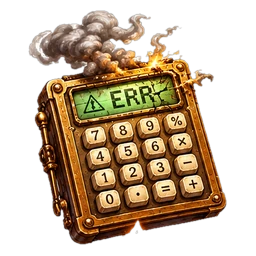
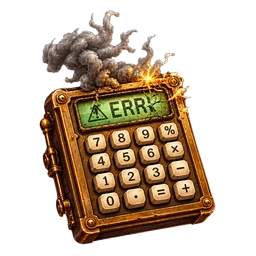
Calculadora y libro con vela: versión limpia de las nuevas ilustraciones (v189)
Claude-Session: https://claude.ai/code/session_01D8YuskAoU39u1VrYjoDDvg

diff --git a/index.html b/index.html
@@ -47,13 +47,13 @@
 <link rel="preconnect" href="https://fonts.googleapis.com">
 <link rel="preconnect" href="https://fonts.gstatic.com" crossorigin>
 <link href="https://fonts.googleapis.com/css2?family=Playfair+Display:wght@600;700;800&family=Inter:wght@400;500;600;700;800;900&display=swap" rel="stylesheet">
-<link rel="stylesheet" href="styles/main.css?v=188">
+<link rel="stylesheet" href="styles/main.css?v=189">
 <!-- v1.4: estilos de la capa online (cuenta, migración, ranking). Solo clases .seq-* -->
-<link rel="stylesheet" href="styles/online.css?v=188">
-<link rel="stylesheet" href="styles/encargos.css?v=188">
-<link rel="stylesheet" href="styles/encargos-intro.css?v=188">
-<link rel="stylesheet" href="styles/sir-events.css?v=188">
-<link rel="stylesheet" href="styles/theme.css?v=188">
+<link rel="stylesheet" href="styles/online.css?v=189">
+<link rel="stylesheet" href="styles/encargos.css?v=189">
+<link rel="stylesheet" href="styles/encargos-intro.css?v=189">
+<link rel="stylesheet" href="styles/sir-events.css?v=189">
+<link rel="stylesheet" href="styles/theme.css?v=189">
 
 </head>
 <body class="on-home">
@@ -1104,53 +1104,53 @@ try {
 <!-- Fase 2: datos y constantes extraidos a modulos, cargados como scripts
      clasicos (no ES Modules) para conservar el scope global compartido con
      el script principal, sin convertir todavia la app a ES Modules. -->
-<script src="src/data/ui-maps.js?v=188"></script>
-<script src="src/data/questions.js?v=188"></script>
-<script src="src/data/questions-retired.js?v=188"></script>
-<script src="src/data/phrases.js?v=188"></script>
-<script src="src/data/duel-phrases.js?v=188"></script>
-<script src="src/data/lucidez.js?v=188"></script>
-<script src="src/data/medals.js?v=188"></script>
+<script src="src/data/ui-maps.js?v=189"></script>
+<script src="src/data/questions.js?v=189"></script>
+<script src="src/data/questions-retired.js?v=189"></script>
+<script src="src/data/phrases.js?v=189"></script>
+<script src="src/data/duel-phrases.js?v=189"></script>
+<script src="src/data/lucidez.js?v=189"></script>
+<script src="src/data/medals.js?v=189"></script>
 <!-- Prompt 3 — Fase C: sistema de avatares compartido (window.SEQAvatars). Debe
      cargarse antes de src/online/online.js y src/online/duels.js: ambos lo
      consumen en vez de mantener cada uno su propia copia de la lista. -->
-<script src="src/data/avatars.js?v=188"></script>
-<script src="src/share/share-card.js?v=188"></script>
+<script src="src/data/avatars.js?v=189"></script>
+<script src="src/share/share-card.js?v=189"></script>
 
 <!-- Fase 3 (Lote 3A): motor de coincidencia de respuestas extraido a
      src/utils/matching.js, mismo criterio que la Fase 2 (script clasico,
      sin ES Modules todavia). -->
-<script src="src/utils/matching.js?v=188"></script>
-<script src="src/utils/answer-alias.js?v=188"></script>
-<script src="src/utils/lucidez-select.js?v=188"></script>
-<script src="src/state/lucidez-bag.js?v=188"></script>
-<script src="src/utils/encargos-core.js?v=188"></script>
-<script src="src/utils/encargos-progress.js?v=188"></script>
-<script src="src/state/encargos.js?v=188"></script>
-<script src="src/data/encargos-phrases.js?v=188"></script>
-<script src="src/ui/encargos-ui.js?v=188"></script>
-<script src="src/data/named-phrases.js?v=188"></script>
-<script src="src/utils/named-phrases.js?v=188"></script>
-<script src="src/utils/encargos-intro-core.js?v=188"></script>
-<script src="src/data/encargos-intro-phrases.js?v=188"></script>
-<script src="src/ui/encargos-intro.js?v=188"></script>
-<script src="src/data/home-quotes.js?v=188"></script>
-<script src="src/ui/home-quote.js?v=188"></script>
-<script src="src/utils/sir-events.js?v=188"></script>
-<script src="src/ui/sir-events-ui.js?v=188"></script>
-<script src="src/state/sir-events.js?v=188"></script>
-<script src="src/utils/sudden-progression.js?v=188"></script>
-<script src="src/utils/fresh-first.js?v=188"></script>
-<script src="src/utils/mental-calc.js?v=188"></script>
-<script src="src/utils/mental-classic.js?v=188"></script>
-<script src="src/ui/mental-classic-ui.js?v=188"></script>
+<script src="src/utils/matching.js?v=189"></script>
+<script src="src/utils/answer-alias.js?v=189"></script>
+<script src="src/utils/lucidez-select.js?v=189"></script>
+<script src="src/state/lucidez-bag.js?v=189"></script>
+<script src="src/utils/encargos-core.js?v=189"></script>
+<script src="src/utils/encargos-progress.js?v=189"></script>
+<script src="src/state/encargos.js?v=189"></script>
+<script src="src/data/encargos-phrases.js?v=189"></script>
+<script src="src/ui/encargos-ui.js?v=189"></script>
+<script src="src/data/named-phrases.js?v=189"></script>
+<script src="src/utils/named-phrases.js?v=189"></script>
+<script src="src/utils/encargos-intro-core.js?v=189"></script>
+<script src="src/data/encargos-intro-phrases.js?v=189"></script>
+<script src="src/ui/encargos-intro.js?v=189"></script>
+<script src="src/data/home-quotes.js?v=189"></script>
+<script src="src/ui/home-quote.js?v=189"></script>
+<script src="src/utils/sir-events.js?v=189"></script>
+<script src="src/ui/sir-events-ui.js?v=189"></script>
+<script src="src/state/sir-events.js?v=189"></script>
+<script src="src/utils/sudden-progression.js?v=189"></script>
+<script src="src/utils/fresh-first.js?v=189"></script>
+<script src="src/utils/mental-calc.js?v=189"></script>
+<script src="src/utils/mental-classic.js?v=189"></script>
+<script src="src/ui/mental-classic-ui.js?v=189"></script>
 
 <!-- Fase 3 (Lote 3B): nucleo algoritmico de Duelo extraido a
      src/utils/duel.js, mismo criterio que el resto (script clasico, sin
      ES Modules todavia). Las dependencias compartidas con otros modos
      (arrangeStandardBlock, generateLucidezMentalOp)
      permanecen en este script principal, sin moverse en este lote. -->
-<script src="src/utils/duel.js?v=188"></script>
+<script src="src/utils/duel.js?v=189"></script>
 
 <!-- Fase 3 (Lote 3C): defaults, migracion y saneamiento del Store
      extraidos a src/utils/store.js, mismo criterio que el resto (script
@@ -1162,50 +1162,50 @@ try {
      getLevelData) y las 8 funciones de persistencia real (loadStore,
      saveStore, exportProgress...) permanecen en este script principal,
      sin moverse en este lote. -->
-<script src="src/utils/store.js?v=188"></script>
+<script src="src/utils/store.js?v=189"></script>
 
 <!-- Fase 4B: fachada de estado de solo lectura (getStore/getCurrentGame),
      mismo criterio que el resto (script clasico, sin ES Modules todavia).
      No copia, no transforma, no cachea. Ver src/state/read-facade.js. -->
-<script src="src/state/read-facade.js?v=188"></script>
+<script src="src/state/read-facade.js?v=189"></script>
 
-<script src="src/utils/streak-xp.js?v=188"></script>
+<script src="src/utils/streak-xp.js?v=189"></script>
 <!-- Fase 4C: helpers minimos de escritura (pushCapped, resetStreak) para
      eliminar 2 duplicaciones reales concretas -- no un sistema de
      mutaciones. Ver src/state/write-helpers.js y CHANGELOG_FASE4C.md. -->
-<script src="src/state/write-helpers.js?v=188"></script>
+<script src="src/state/write-helpers.js?v=189"></script>
 
 <!-- v1.4: capa online (cuenta Google, sincronización, migración, ranking).
      config.js es PÚBLICO (URL del Worker + Client ID de Google); si está
      vacío, la capa online queda desactivada y la app es idéntica a la v1.3.
      online.js solo usa el store/funciones del juego en tiempo de ejecución. -->
-<script src="src/ui/install-app.js?v=188"></script>
-<script src="src/ui/a11y.js?v=188"></script>
-<script src="src/ui/back-nav.js?v=188"></script>
-<script src="src/ui/game-fx.js?v=188"></script>
-<script src="src/ui/last-life.js?v=188"></script>
-<script src="src/ui/hitos.js?v=188"></script>
-<script src="src/ui/achievements.js?v=188"></script>
-<script src="src/ui/stats-extra.js?v=188"></script>
-<script src="src/ui/name-prompt.js?v=188"></script>
-<script src="src/ui/intro.js?v=188"></script>
-<script src="src/ui/mode-badges.js?v=188"></script>
-<script src="src/ui/lucidez-ui.js?v=188"></script>
-<script src="src/ui/sabias.js?v=188"></script>
-<script src="src/ui/icons.js?v=188"></script>
-<script src="src/online/config.js?v=188"></script>
+<script src="src/ui/install-app.js?v=189"></script>
+<script src="src/ui/a11y.js?v=189"></script>
+<script src="src/ui/back-nav.js?v=189"></script>
+<script src="src/ui/game-fx.js?v=189"></script>
+<script src="src/ui/last-life.js?v=189"></script>
+<script src="src/ui/hitos.js?v=189"></script>
+<script src="src/ui/achievements.js?v=189"></script>
+<script src="src/ui/stats-extra.js?v=189"></script>
+<script src="src/ui/name-prompt.js?v=189"></script>
+<script src="src/ui/intro.js?v=189"></script>
+<script src="src/ui/mode-badges.js?v=189"></script>
+<script src="src/ui/lucidez-ui.js?v=189"></script>
+<script src="src/ui/sabias.js?v=189"></script>
+<script src="src/ui/icons.js?v=189"></script>
+<script src="src/online/config.js?v=189"></script>
 <!-- v2.0: combinación de datos de jugador (mismo código que el servidor) y su sincronización -->
-<script src="src/utils/sync-merge.js?v=188"></script>
-<script src="src/online/data-sync.js?v=188"></script>
-<script src="src/online/online.js?v=188"></script>
+<script src="src/utils/sync-merge.js?v=189"></script>
+<script src="src/online/data-sync.js?v=189"></script>
+<script src="src/online/online.js?v=189"></script>
 <!-- v1.5: Amigos, Duelo online y Retos. El servidor decide preguntas, tiempo, aciertos y ganador. -->
-<script src="src/online/duels.js?v=188"></script>
+<script src="src/online/duels.js?v=189"></script>
 <!-- 2.1: Duelo por apuestas, ELO PvP, Rankings y estadísticas de Duelos (solo presentación; decide el servidor) -->
-<script src="src/online/duels-v21.js?v=188"></script>
-<script src="src/online/inbox.js?v=188"></script>
-<script src="src/online/push.js?v=188"></script>
+<script src="src/online/duels-v21.js?v=189"></script>
+<script src="src/online/inbox.js?v=189"></script>
+<script src="src/online/push.js?v=189"></script>
 <!-- Audio: sonidos del juego (src/audio/audio.js) -->
-<script src="src/audio/audio.js?v=188"></script>
+<script src="src/audio/audio.js?v=189"></script>
 
 <script>
 function closeWelcomeModal() {

diff --git a/sw.js b/sw.js
@@ -38,7 +38,7 @@
 // styles/main.css, src/data/medals.js, src/utils/store.js y src/online/duels.js (ya en el shell).
 // 2.0 (Prompt 5, tarjeta de compartir): subido de 10 a 11; nuevo src/share/share-card.js
 // (añadido al shell) y cambiaron index.html y src/online/duels.js.
-const CACHE_VERSION = 188;
+const CACHE_VERSION = 189;
 // Dos cachés (ver install/fetch más abajo):
 //  · CACHE_NAME  (versionada): index.html, CSS, JS, manifest e iconos. Es poco y es imprescindible: si no se puede guardar, la
 //    versión nueva no se instala y se queda la anterior.
@@ -563,7 +563,7 @@ const ASSET_REVS = {
   './assets/ui/bombilla.webp': '38c00fe5',
   './assets/ui/bronce.webp': '5a68a9d9',
   './assets/ui/calavera.webp': '19d4f16e',
-  './assets/ui/calculadora-humo.webp': 'a33795b5',
+  './assets/ui/calculadora-humo.webp': 'd056b438',
   './assets/ui/calculadora-laton.webp': '7912ca3d',
   './assets/ui/caracol.webp': '59071199',
   './assets/ui/cartel-peligro.webp': '97d54d81',
@@ -590,7 +590,7 @@ const ASSET_REVS = {
   './assets/ui/insignia.webp': 'c6704d09',
   './assets/ui/instalar-app.webp': '4b10f2c0',
   './assets/ui/libreta.webp': '692a9ac7',
-  './assets/ui/libro-vela.webp': '7a383ca7',
+  './assets/ui/libro-vela.webp': '37b490f3',
   './assets/ui/libro.webp': 'fab53d16',
   './assets/ui/liebre.webp': '6781ca8d',
   './assets/ui/marca-duelo.webp': '4ed6e4f5',
